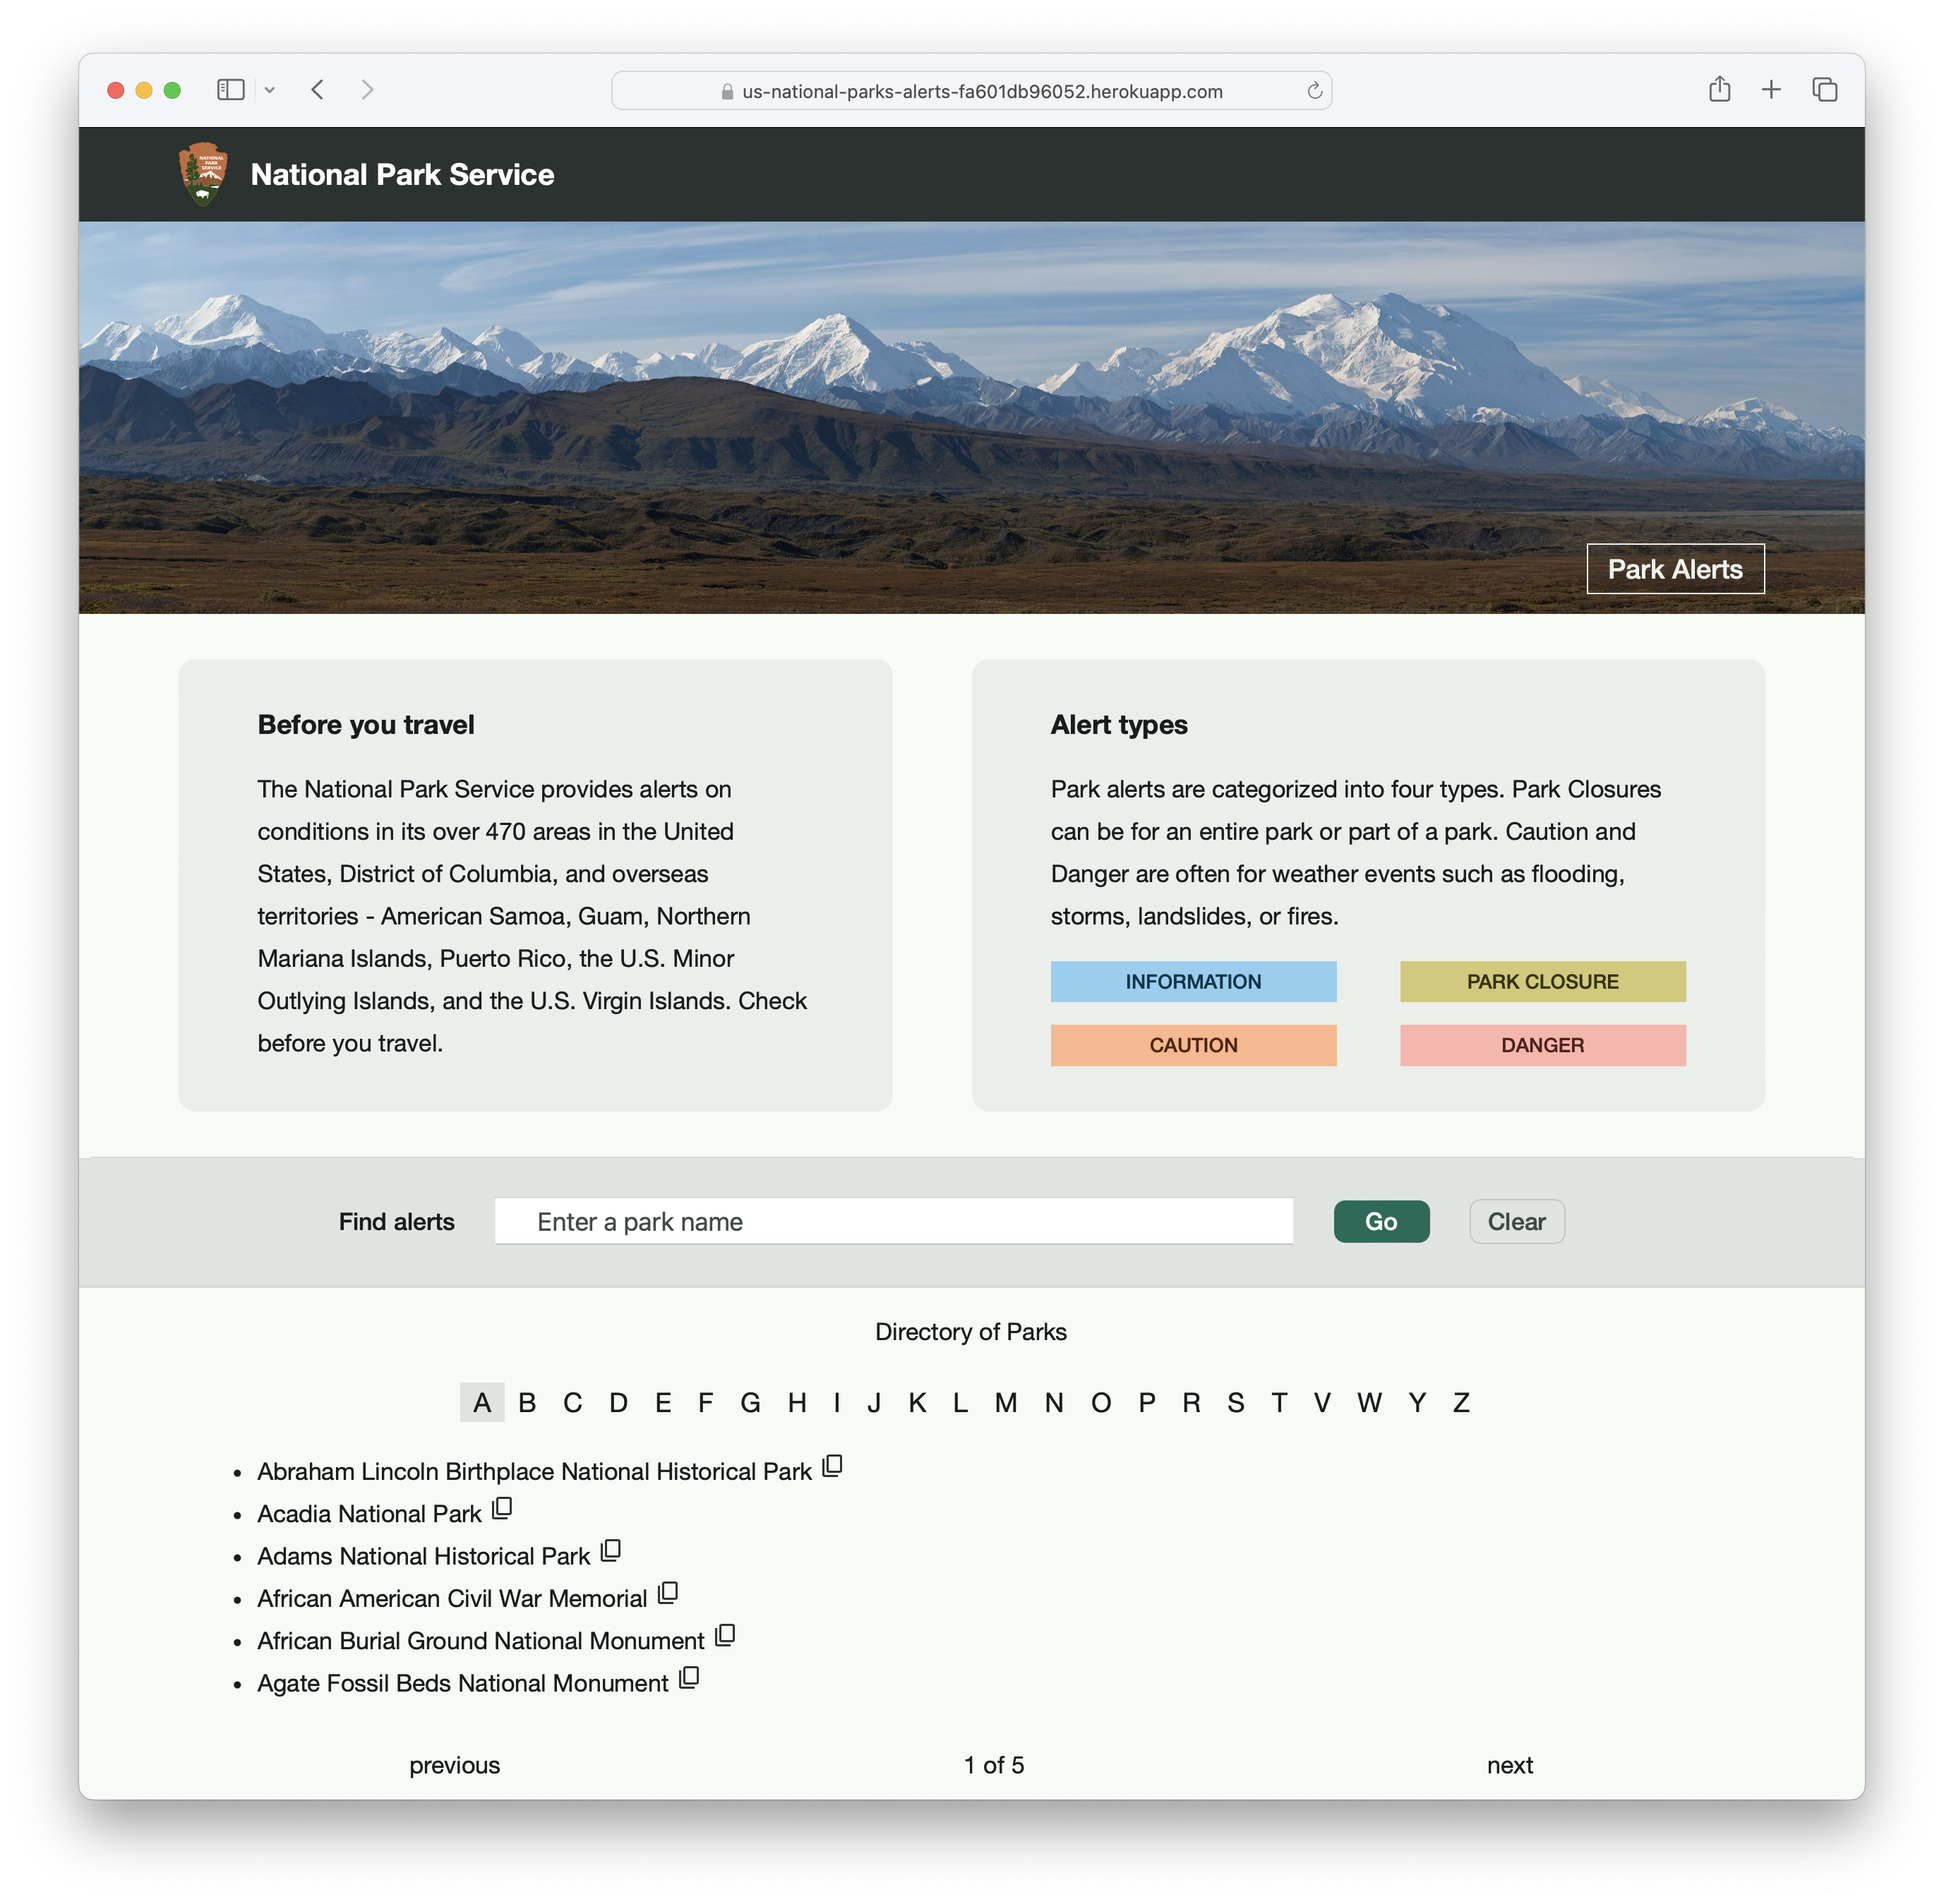
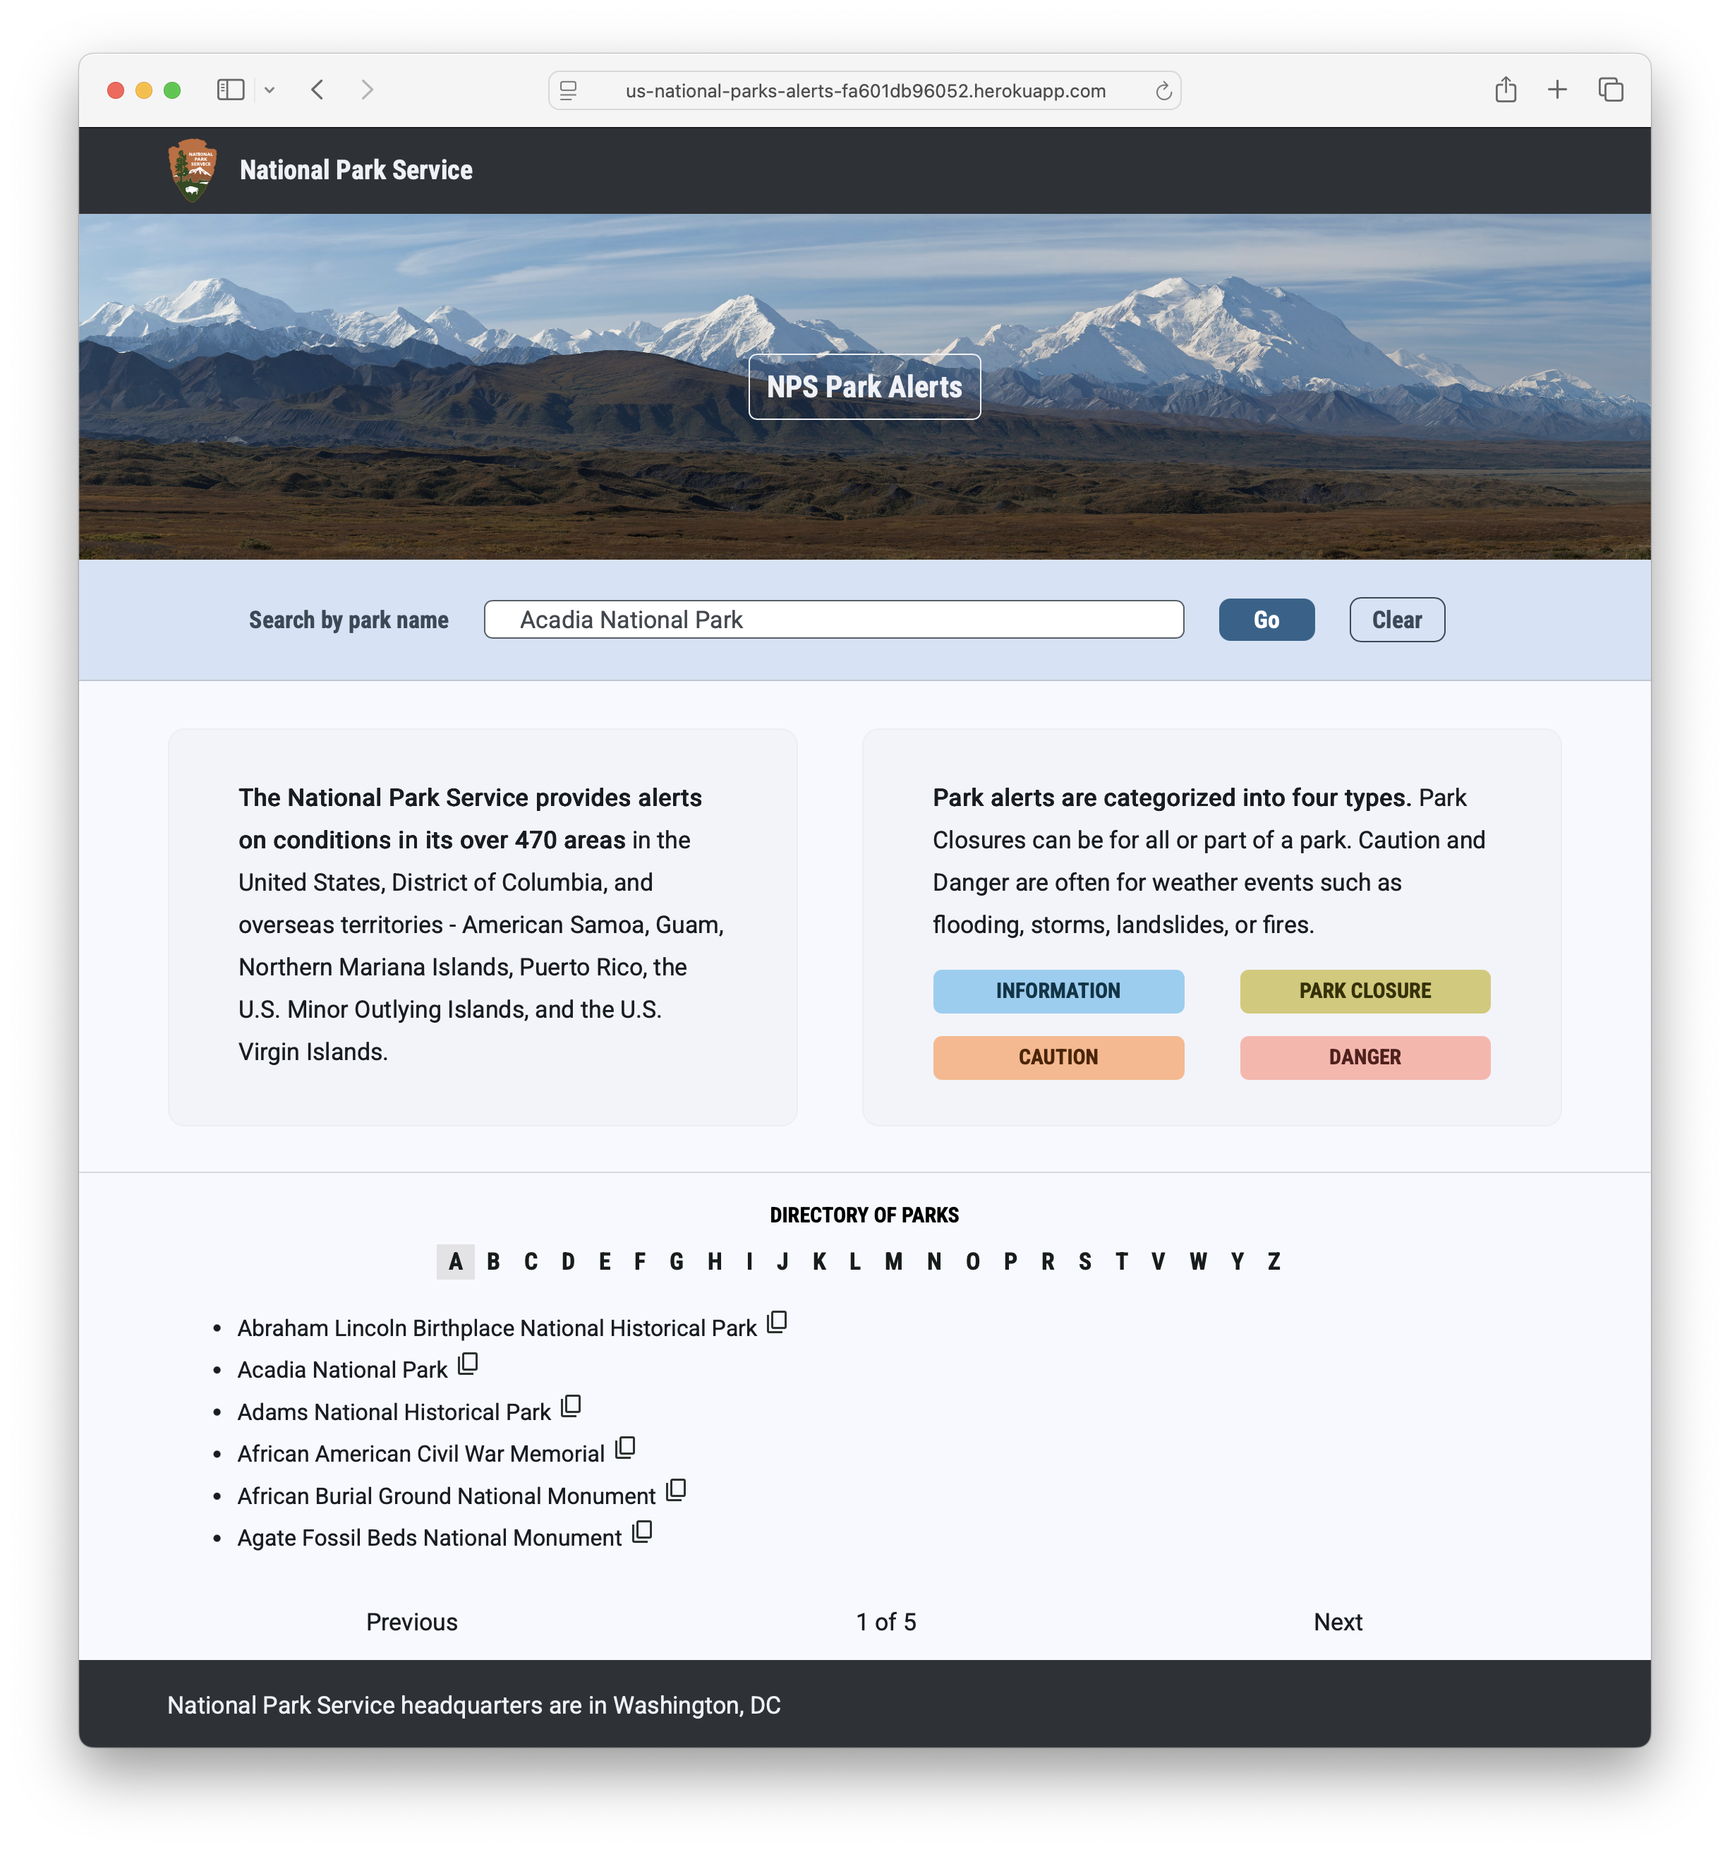
Update screen shots and Readme file after modifying design.

Changed region(s): [[0.031, 0.0312, 0.9608, 0.9688], [0.31, 0.0312, 0.6819, 0.0625], [0.8679, 0.0312, 0.8989, 0.0625]]

diff --git a/README.md b/README.md
@@ -12,7 +12,7 @@ Project meets general accessibility (WACG) and cross-browser requirements. More 
 * Starting view.
 ![screen shot of project](/screenshots/us-national-parks-alerts-screenshot1.png?s=600)
 
-* Alerts for Acadia National Park.
+* Alerts for Glacier National Park.
 ![screen shot of project](/screenshots/us-national-parks-alerts-screenshot2.png?s=600)
 
 ## Installation and Setup Instructions
